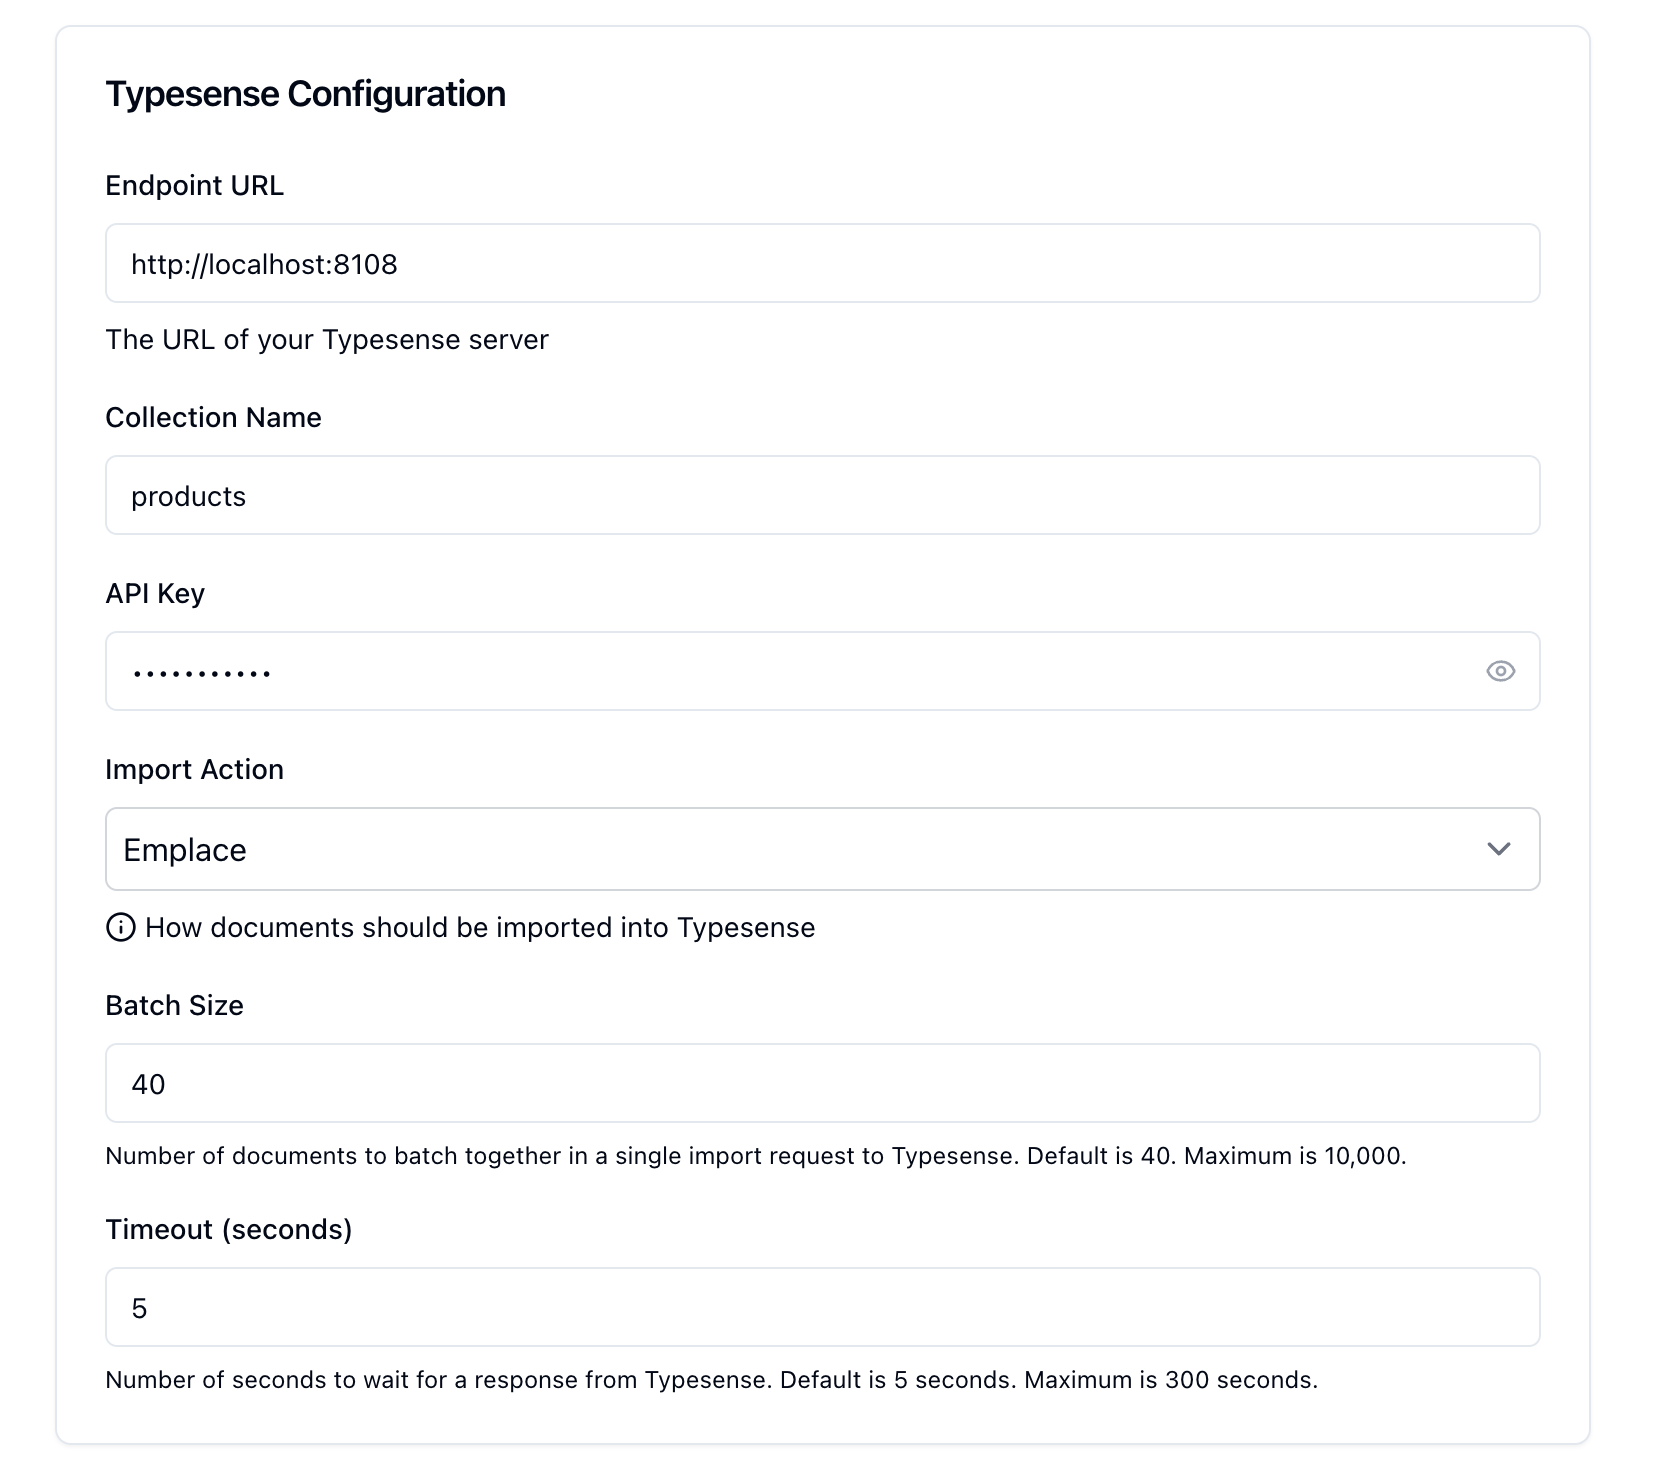
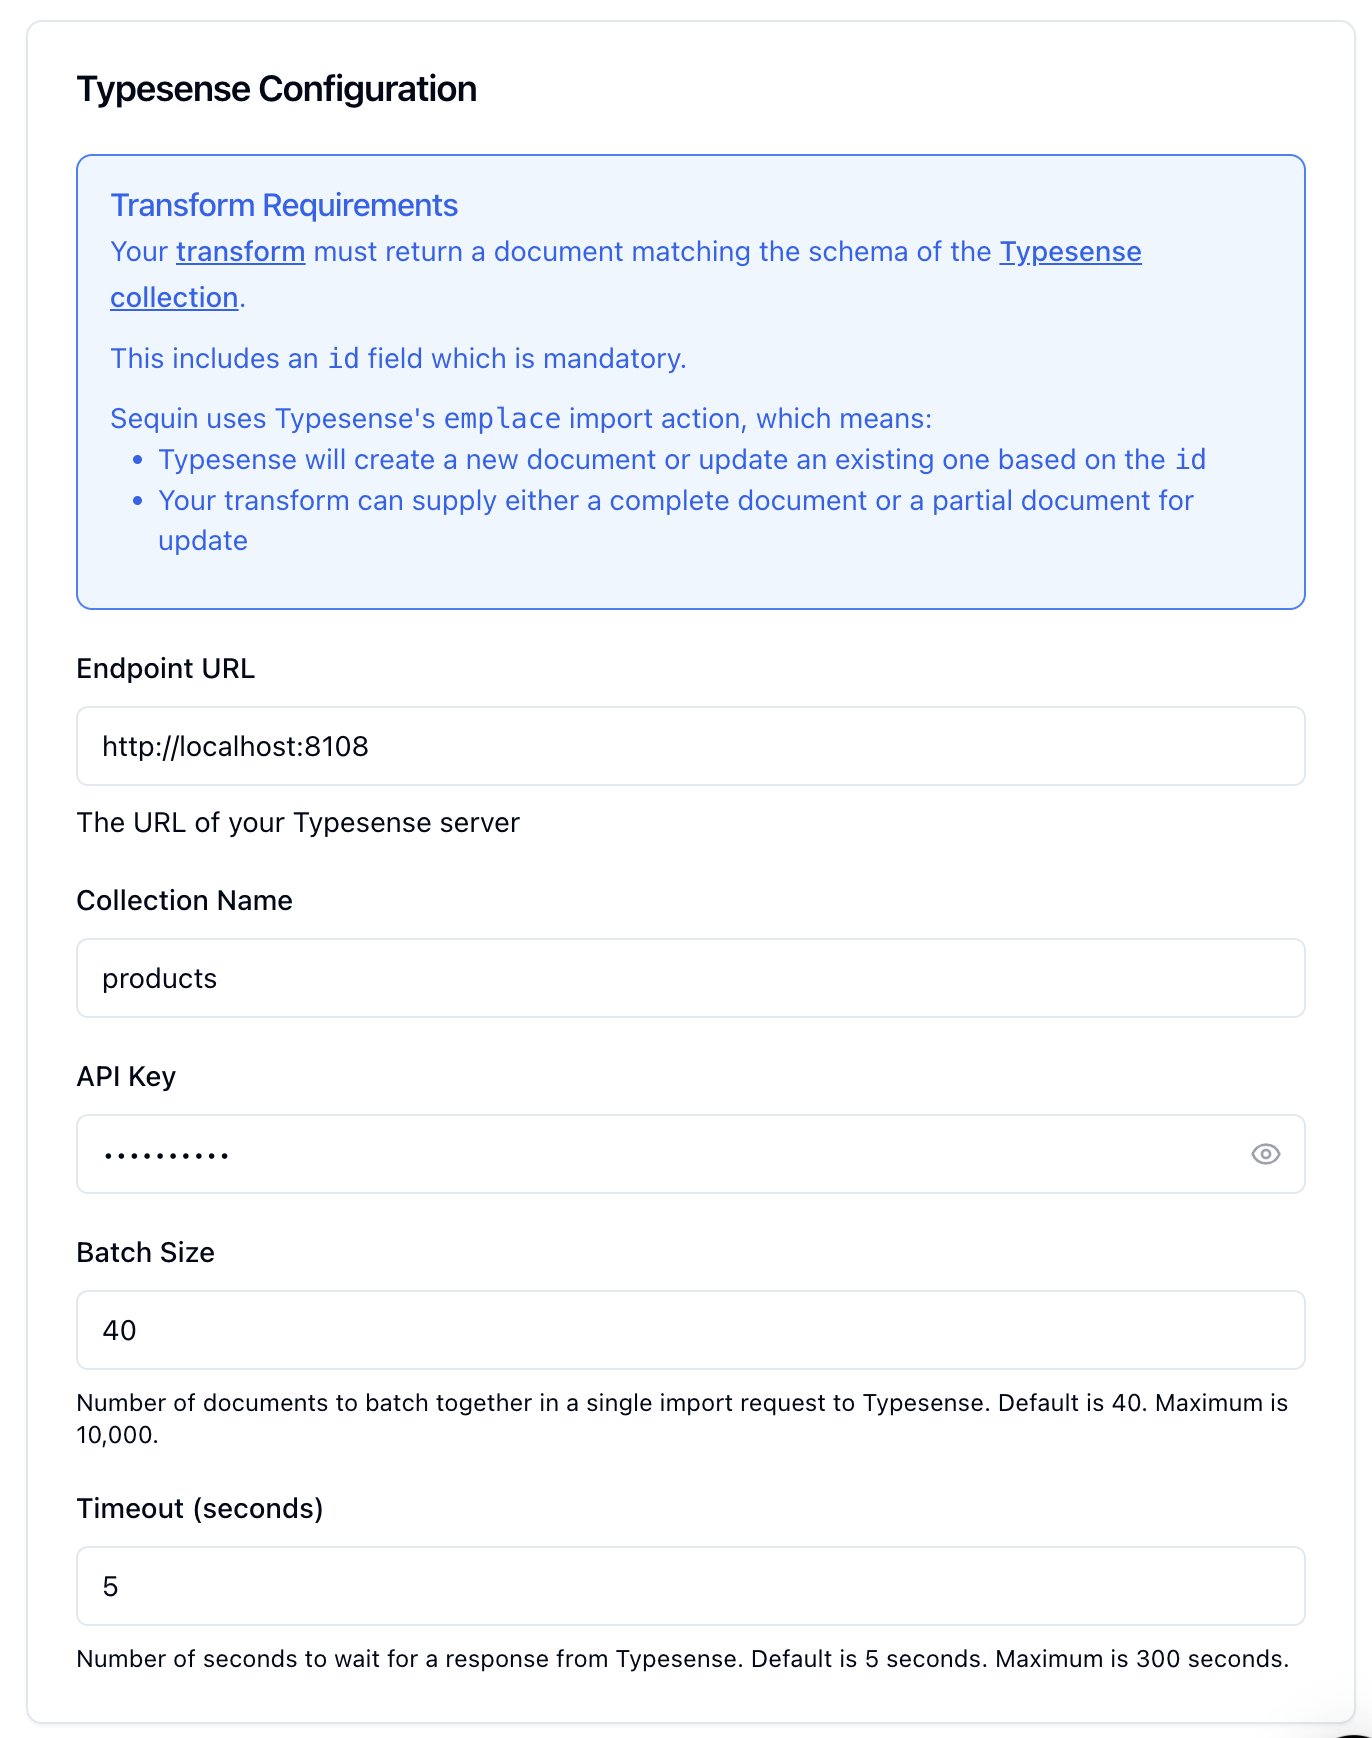
:memo: Minor edits to Typesense Quickstart

diff --git a/assets/svelte/sinks/typesense/TypesenseSinkForm.svelte b/assets/svelte/sinks/typesense/TypesenseSinkForm.svelte
@@ -10,20 +10,12 @@
   import type { TypesenseConsumer } from "$lib/consumers/types";
   import { Label } from "$lib/components/ui/label";
   import { Eye, EyeOff, Info } from "lucide-svelte";
-  import * as Tooltip from "$lib/components/ui/tooltip";
-  import { Select } from "$lib/components/ui/select";
 
   export let form: TypesenseConsumer;
   export let errors: any = {};
   let showPassword = false;
 
   // Import action options based on the typesense_sink.ex Elixir module
-  let importActionOptions = [
-    { value: "create", label: "Create" },
-    { value: "upsert", label: "Upsert" },
-    { value: "update", label: "Update" },
-    { value: "emplace", label: "Emplace" },
-  ];
 
   function togglePasswordVisibility() {
     showPassword = !showPassword;
@@ -32,11 +24,11 @@
 
 <Card>
   <CardHeader>
-    <CardTitle>Typesense Configuration</CardTitle>
+    <CardTitle>Typesense configuration</CardTitle>
   </CardHeader>
   <CardContent class="space-y-4">
     <Alert.Root variant="info">
-      <Alert.Title>Transform Requirements</Alert.Title>
+      <Alert.Title>Transform requirements</Alert.Title>
       <Alert.Description>
         <p class="mb-2">
           Your <a
@@ -87,7 +79,7 @@
     </div>
 
     <div class="space-y-2">
-      <Label for="collection_name">Collection Name</Label>
+      <Label for="collection_name">Collection name</Label>
       <Input
         id="collection_name"
         bind:value={form.sink.collection_name}
@@ -99,7 +91,7 @@
     </div>
 
     <div class="space-y-2">
-      <Label for="api_key">API Key</Label>
+      <Label for="api_key">API key</Label>
       <div class="relative">
         <Input
           id="api_key"
@@ -127,7 +119,7 @@
     </div>
 
     <div class="space-y-2">
-      <Label for="batch_size">Batch Size</Label>
+      <Label for="batch_size">Batch size</Label>
       <Input
         id="batch_size"
         type="number"

diff --git a/assets/svelte/transforms/Edit.svelte b/assets/svelte/transforms/Edit.svelte
@@ -429,7 +429,7 @@ Please help me create or modify the Elixir function transform to achieve the des
       <form on:submit={handleSubmit} class="space-y-4">
         <div class="space-y-2">
           <div class="flex items-center gap-2">
-            <Label for="name">Transform Name</Label>
+            <Label for="name">Transform name</Label>
             <Popover>
               <PopoverTrigger>
                 <Info class="w-4 h-4 text-slate-500 dark:text-slate-400" />
@@ -461,7 +461,7 @@ Please help me create or modify the Elixir function transform to achieve the des
 
         <div class="space-y-2 max-w-xl">
           <div class="flex items-center gap-2">
-            <Label for="type">Transform Type</Label>
+            <Label for="type">Transform type</Label>
             <Popover>
               <PopoverTrigger>
                 <Info class="w-4 h-4 text-slate-500 dark:text-slate-400" />
